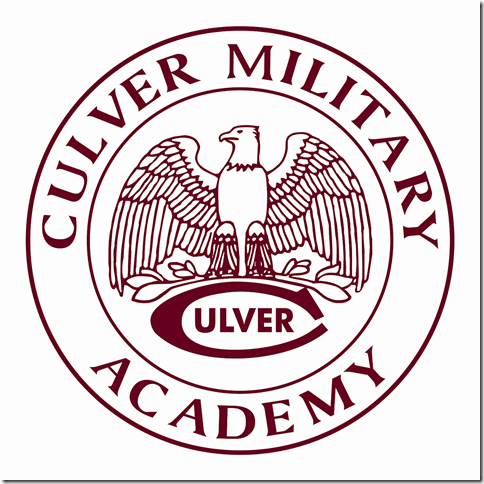
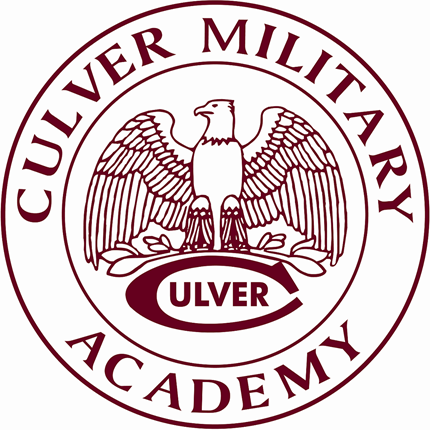
background

diff --git a/stylesheet.css b/stylesheet.css
@@ -160,7 +160,11 @@ h1#pagename
 }
 div.content
 {
-	background-color: #F0F0F0;
+	background-attachment: fixed;
+	background-color: #FFF;
+	background-image: url(images/Culver%20Seal%20-%20Transparent.png);
+	background-position: center center;
+	background-repeat: no-repeat;
 	border-color: black;
 	border-radius: 15px;
 	border-style: solid;
